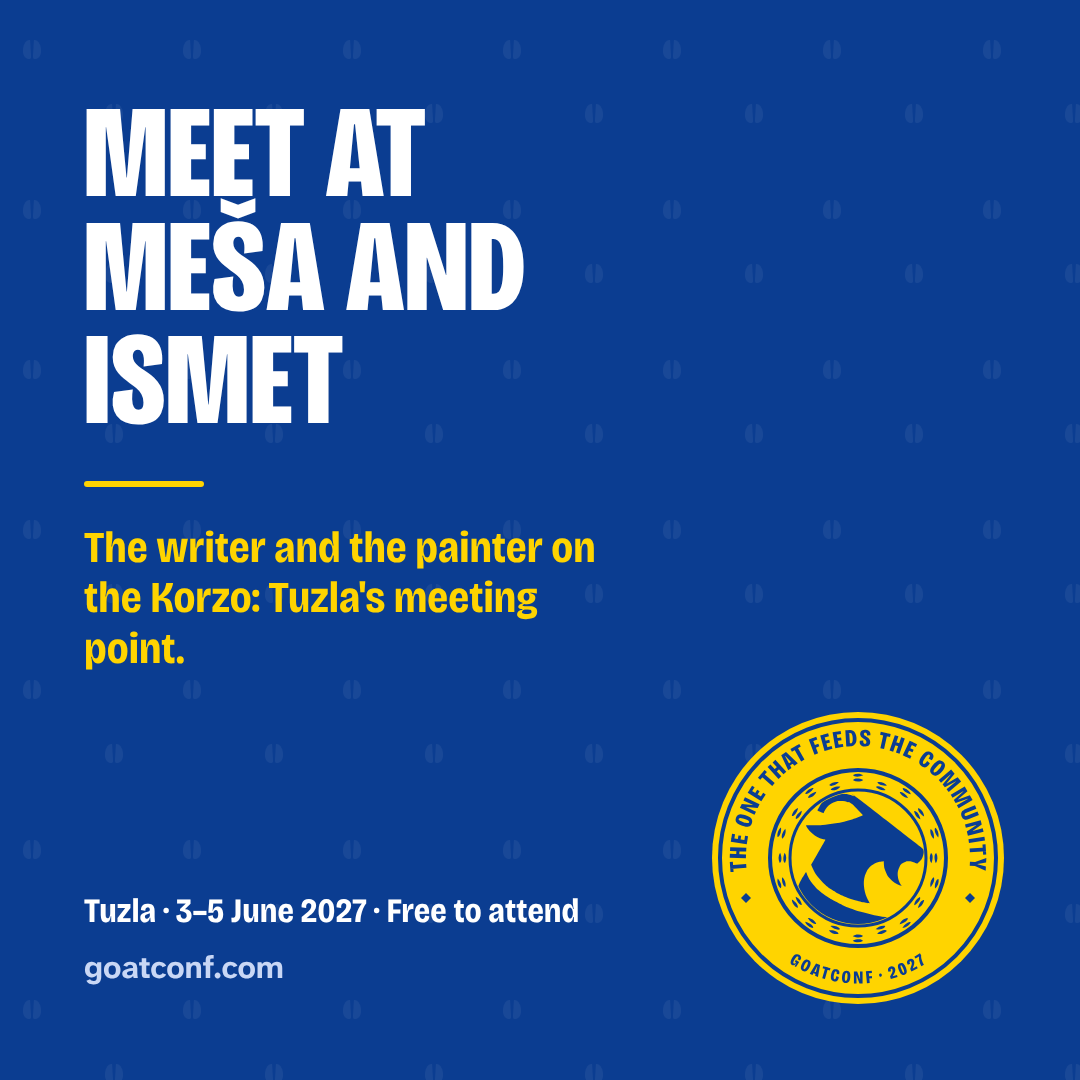
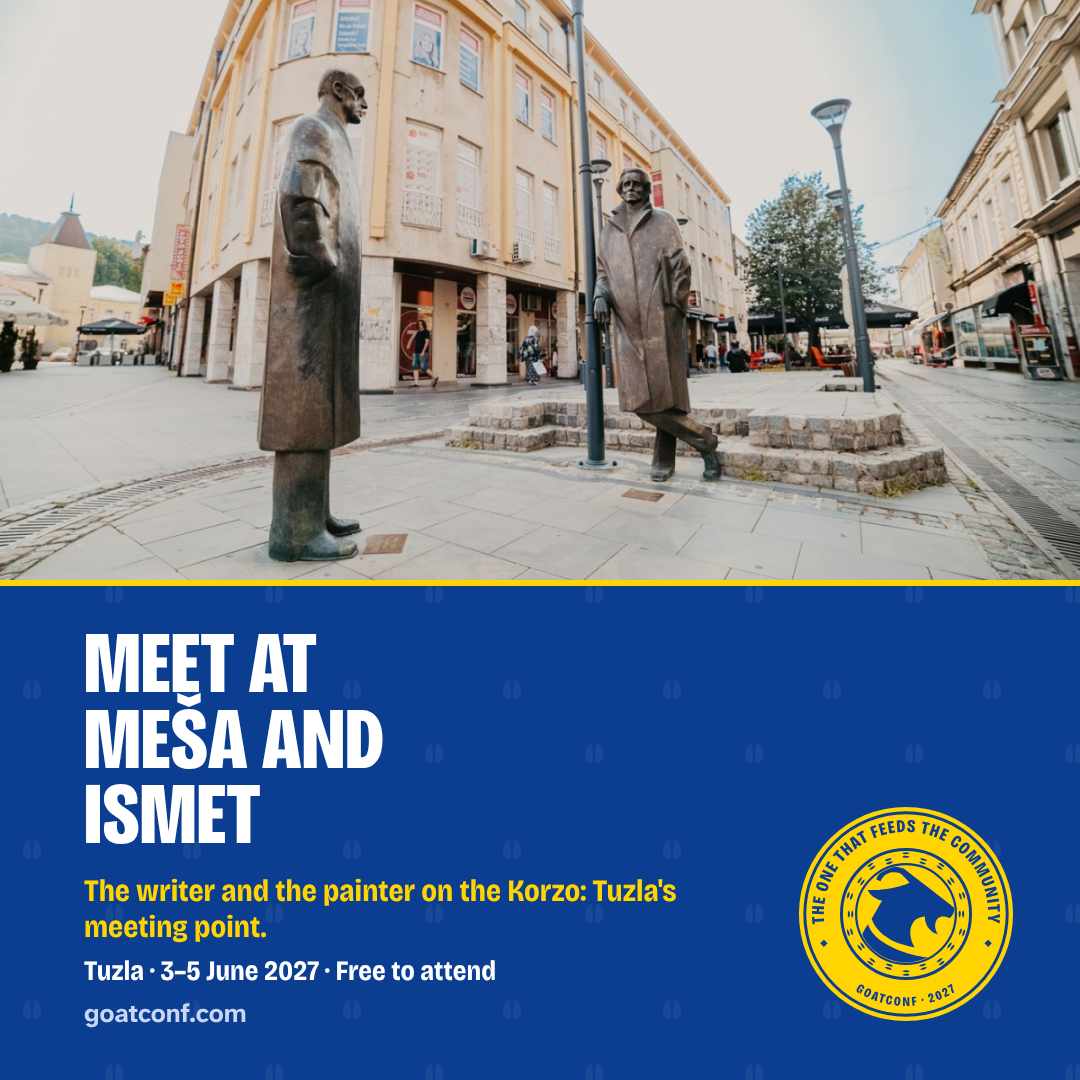
drumbeat: show Meša and Ismet on the Korzo in the week 4 post
The "Meet at Meša and Ismet" cards were lettering only. They now show a
photo of the two statues facing each other with the walking street
behind, the photo the organiser chose on 2026-11-07, with no credit on
the organiser's call.

- shareables: the post moves to the photo posts; a photo post may carry
  no credit, may say where to hold its crop, and a three-line title gets
  a taller photo and smaller words on the square card. The other photo
  posts render as before.
- the photo and its record under assets/images/organiser/, its card copy
  in site/img/
- drumbeat-2026 and tuzla-images record the change and the freely
  licensed fallbacks found on Commons and Flickr

Sources: sources/conversations/2026-11-07--org--mesa-and-ismet-photo.md
Restricted paths: files/tools/shareables.py

diff --git a/files/tools/shareables.py b/files/tools/shareables.py
@@ -218,13 +218,13 @@ POSTS = {
     "community-day": ("The<br>community's<br>day", "The salt lakes, the goat hunt, and the evening meetup."),
     "thank-you": ("Thank<br>you", "To everyone who spoke, supported, hosted, volunteered and came."),
     # The Tuesday Tuzla posts (wiki/org/outreach/drumbeat.md)
-    "mesa-and-ismet": ("Meet at<br>Meša and<br>Ismet", "The writer and the painter on the Korzo: Tuzla's meeting point."),
     "where-to-run-it": ("58 places<br>to run<br>yours", "From cafés on Freedom Square to halls for a few hundred people."),
     "salt-square": ("Salt<br>Square", "An Ottoman salt well from 1476, now an open-air museum."),
 }
 
-# Posts with a photo given for GoatConf, each with the credit line its giver asked for
-# (wiki/org/tuzla-images.md). The food photos are not freely licensed, so none is here.
+# Posts with a photo given for GoatConf, each with the credit line its giver asked for, or none where the organiser
+# chose no credit (wiki/org/tuzla-images.md). The food photos are not freely licensed, so none is here. An optional
+# fifth item says where to hold the photo in the square and in the wide crop (CSS object-position).
 PHOTO_POSTS = {
     "getting-to-tuzla": ("Getting<br>to Tuzla", "Fly to Tuzla or Sarajevo, or come by bus.", "img/city-square-mosque-summer.jpg", "Photo: Grad Tuzla"),
     "an-hour-off": ("An hour<br>off", "After every session: Freedom Square, five minutes away.", "img/city-square-fountain-summer.jpg", "Photo: Grad Tuzla"),
@@ -233,31 +233,39 @@ PHOTO_POSTS = {
     "next-week": ("Next week<br>in Tuzla", "The salt lakes open for the season on 1 June.", "img/city-old-town-aerial-paving.jpg", "Photo: Grad Tuzla"),
     "city-of-salt": ("A city of<br>salt", "Tuzla takes its name from tuz, the Turkish for salt.", "img/city-aerial-summer.jpg", "Photo: Grad Tuzla"),
     "seven-thousand-years": ("7,000<br>years", "Neolithic people boiled salt here, in houses on stilts.", "img/city-archaeological-park.jpg", "Photo: Grad Tuzla"),
+    # The Tuesday Tuzla posts (wiki/org/outreach/drumbeat.md): the two statues facing each other, the Korzo behind.
+    "mesa-and-ismet": ("Meet at<br>Meša and<br>Ismet", "The writer and the painter on the Korzo: Tuzla's meeting point.",
+                       "img/korzo-mesa-and-ismet.jpg", "", ("50% 60%", "40% 50%")),
 }
 
 
-def photo_post(w: int, h: int, title: str, line: str, img: str, credit: str, square: bool) -> str:
-    """A post with a photo: the photo on top (square) or on the left (wide), its credit on it, the words beside."""
+def photo_post(w: int, h: int, title: str, line: str, img: str, credit: str, square: bool,
+               focus: tuple[str, str] = ("50% 50%", "50% 50%")) -> str:
+    """A post with a photo: the photo on top (square) or on the left (wide), its credit on it if it has one, the words
+    beside. A three-line title gets a taller photo and smaller words on the square card, so the words still fit."""
     src = (SITE / img).as_uri()
     cred = (f'<div style="position:absolute; left:18px; bottom:14px; font-size:20px; font-weight:700; '
-            f'text-shadow:0 1px 4px rgb(0 0 0 / .8)">{esc(credit)}</div>')
+            f'text-shadow:0 1px 4px rgb(0 0 0 / .8)">{esc(credit)}</div>') if credit else ""
     if square:
+        tall = title.count("<br>") >= 2
+        band, word, sub, facts, url, seal_size, bottom = ((580, 88, 31, 28, 26, 220, 50) if tall
+                                                          else (540, 112, 38, 30, 28, 230, 64))
         return page(w, h, f"""
-<div style="position:absolute; left:0; top:0; width:{w}px; height:540px; overflow:hidden">
-  <img src="{src}" style="width:100%; height:100%; object-fit:cover">{cred}</div>
-<div class="rule" style="position:absolute; left:0; top:540px; width:{w}px; border-radius:0"></div>
-<div style="position:absolute; left:84px; top:600px; right:330px">
-  <div class="word" style="font-size:112px">{title}</div>
-  <div class="sub" style="font-size:38px; line-height:1.15; margin-top:30px">{line}</div>
+<div style="position:absolute; left:0; top:0; width:{w}px; height:{band}px; overflow:hidden">
+  <img src="{src}" style="width:100%; height:100%; object-fit:cover; object-position:{focus[0]}">{cred}</div>
+<div class="rule" style="position:absolute; left:0; top:{band}px; width:{w}px; border-radius:0"></div>
+<div style="position:absolute; left:84px; top:{band + (46 if tall else 60)}px; right:330px">
+  <div class="word" style="font-size:{word}px">{title}</div>
+  <div class="sub" style="font-size:{sub}px; line-height:1.15; margin-top:{20 if tall else 30}px">{line}</div>
 </div>
-<div style="position:absolute; left:84px; bottom:64px">
-  <div class="sub" style="font-size:30px; color:#fff">{FACTS}</div>
-  <div class="url" style="font-size:28px; margin-top:10px">{URL}</div>
+<div style="position:absolute; left:84px; bottom:{bottom}px">
+  <div class="sub" style="font-size:{facts}px; color:#fff">{FACTS}</div>
+  <div class="url" style="font-size:{url}px; margin-top:{8 if tall else 10}px">{URL}</div>
 </div>
-{seal(230, "right:64px; bottom:64px")}""")
+{seal(seal_size, f"right:64px; bottom:{bottom + 6 if tall else 64}px")}""")
     return page(w, h, f"""
 <div style="position:absolute; left:0; top:0; width:560px; height:{h}px; overflow:hidden">
-  <img src="{src}" style="width:100%; height:100%; object-fit:cover">{cred}</div>
+  <img src="{src}" style="width:100%; height:100%; object-fit:cover; object-position:{focus[1]}">{cred}</div>
 <div class="rule" style="position:absolute; left:560px; top:0; width:6px; height:{h}px; border-radius:0"></div>
 <div style="position:absolute; left:620px; top:64px; right:56px">
   <div class="word" style="font-size:88px">{title}</div>
@@ -439,9 +447,9 @@ def jobs() -> dict[str, tuple[int, int, str]]:
     for key, (title, line) in POSTS.items():
         out[f"post-{key}-square.png"] = (1080, 1080, post(1080, 1080, title, line, True))
         out[f"post-{key}-wide.png"] = (1200, 675, post(1200, 675, title.replace("<br>", " "), line, False))
-    for key, (title, line, img, credit) in PHOTO_POSTS.items():
-        out[f"post-{key}-square.png"] = (1080, 1080, photo_post(1080, 1080, title, line, img, credit, True))
-        out[f"post-{key}-wide.png"] = (1200, 675, photo_post(1200, 675, title, line, img, credit, False))
+    for key, (title, line, img, credit, *focus) in PHOTO_POSTS.items():
+        out[f"post-{key}-square.png"] = (1080, 1080, photo_post(1080, 1080, title, line, img, credit, True, *focus))
+        out[f"post-{key}-wide.png"] = (1200, 675, photo_post(1200, 675, title, line, img, credit, False, *focus))
     talks = speakers.sessions_by_speaker()
     for slug, (meta, _) in speakers.speakers().items():
         out[f"speaker-{slug}-square.png"] = (1080, 1080, speaker_card(slug, meta, talks.get(slug, []), True))

diff --git a/files/wiki/org/tuzla-images.md b/files/wiki/org/tuzla-images.md
@@ -2,11 +2,12 @@
 title: "Images of Tuzla for GoatConf: free to use, ask first, and gaps"
 kind: reference
 status: living
-updated: 2026-10-19
+updated: 2026-11-07
 confidence: medium
 depends_on:
   - org/tuzla.md
 sources:
+  - sources/conversations/2026-11-07--org--mesa-and-ismet-photo.md
   - sources/conversations/2026-10-19--org--site-review-decisions.md
   - sources/conversations/2026-10-13--org--food-photos-one-by-one.md
   - sources/web/images/food-photos-chosen-2026-10-13.md
@@ -330,3 +331,21 @@ Uštipci then gave way to `site/img/food-sarma.jpg` (sarma in a pot, by BiHVolim
 The organiser replaced all twelve food photos on the home page with ones picked from sheets of candidates, dish by dish (source: sources/conversations/2026-10-13--org--food-photos-one-by-one.md). They are **not freely licensed**: they come from recipe, news and blog sites, Pinterest and Tuzla restaurants' Korpa.ba menus, and are used on the organiser's decision, who takes one down if its owner asks. Every image and the page it came from is in `sources/web/images/food-photos-chosen-2026-10-13.md`. The earlier Commons photos for grah (pasulj) and burek (Nišići) are no longer on the site; the Commons licence records above stay as history.
 
 On 2026-10-19, on the organiser's call, the eleven photos no page showed came off the site: their copies under `site/img/` were removed, and the originals stay in `assets/images/` (source: sources/conversations/2026-10-19--org--site-review-decisions.md). The site now serves WebP copies of each photo it shows, written by `tools/images.py`.
+
+## Meša and Ismet, added 2026-11-07
+
+For the "Meet at Meša and Ismet" post the organiser chose a photo of their
+own finding: the two statues facing each other on the Korzo, low and wide,
+with the walking street, its trees and café umbrellas behind them in summer.
+Where it is from is *(unknown, needs source)*, and on the organiser's call it
+carries no credit. It is `assets/images/organiser/korzo-mesa-and-ismet.jpg`,
+with its record beside it, and `site/img/korzo-mesa-and-ismet.jpg`, which
+only the post cards use (source:
+sources/conversations/2026-11-07--org--mesa-and-ismet-photo.md).
+
+The search for it found freely licensed fallbacks, none downloaded into
+`assets/`: one photo of each statue by Sebleouf on Wikimedia Commons (2019,
+CC BY-SA 4.0), and both statues in one frame by Goran Necin on Flickr
+(2013-06-27, CC BY-SA 2.0), with a bank sign and a beer poster behind. Both
+statues are modern sculptures, so the freedom of panorama note above applies
+to every photo of them.

diff --git a/files/sources/conversations/2026-11-07--org--mesa-and-ismet-photo.md b/files/sources/conversations/2026-11-07--org--mesa-and-ismet-photo.md
@@ -1,0 +1,54 @@
+---
+title: "A photo of Meša and Ismet for the week 4 post"
+date: 2026-11-07
+kind: conversation
+---
+
+On Saturday 7 November 2026, told that the week 4 post "Meet at Meša and
+Ismet" was the one to go out that day, the organiser wrote, verbatim:
+
+> So... The photo seems generic. Wdyt if we make it a split and actually show Ismet and Mesa statue in the street?
+
+The agent said no photo of the monument was in the brain and offered
+options; the organiser wrote, verbatim:
+
+> Find a good photo
+
+The agent found, on Wikimedia Commons, one photo of each statue by
+Sebleouf (February 2019, CC BY-SA 4.0): "Tuzla - Meša Selimović Statue 2
+(2019).jpg" and "Tuzla - Ismet Mujezinović statue (2019).jpg"
+(https://commons.wikimedia.org/w/index.php?curid=76981455,
+https://commons.wikimedia.org/w/index.php?curid=76790523), and mocked up a
+split card with the two side by side. A third Sebleouf photo of Meša has a
+building under renovation, wrapped in a beer advertisement, behind it. The
+only Commons photo with both statues in one frame, "Tuzla-Mesa Selimovic
+Ismet Mujezinovic.jpg" by TheMiner, is 408 by 544, too small for a card.
+The organiser wrote, verbatim:
+
+> I want a photo where we can see both of them and there is no construction going on behind
+
+The agent found on Flickr "Tuzla, Monuments (Bosnia & Herzegovina)" by
+Goran Necin, taken 2013-06-27, CC BY-SA 2.0
+(https://www.flickr.com/photos/33581336@N02/9548315453): both statues
+facing each other, a bank sign and a beer poster behind. Another Flickr
+photo with both, by StaneStane, is CC BY-NC-SA and was left out. The
+organiser wrote, verbatim:
+
+> Do we have a different angle where we can see the walkable street line behind?
+
+Before the agent's further search finished (Flickr had started refusing
+its requests), the organiser shared a photo of their own finding, writing,
+verbatim:
+
+> Maybe this?
+
+It is a low, wide-angle summer shot of both statues facing each other with
+the Korzo, its trees and café umbrellas running back behind them, 1200 by
+744. Where it is from was not said. Asked where it came from and so which
+credit it carries, the organiser answered, verbatim:
+
+> Just don't show credit at all
+
+Then, verbatim:
+
+> Ok, make sure to land the changes to remote and we'll plan to release the post

diff --git a/files/wiki/org/outreach/drumbeat-2026.md b/files/wiki/org/outreach/drumbeat-2026.md
@@ -2,11 +2,12 @@
 title: "The drumbeat, October to December 2026"
 kind: reference
 status: draft
-updated: 2026-11-03
+updated: 2026-11-07
 confidence: medium
 affects:
   - org
 sources:
+  - sources/conversations/2026-11-07--org--mesa-and-ismet-photo.md
   - sources/conversations/2026-11-03--org--paul-spotlight-published.md
   - sources/conversations/2026-10-26--org--paul-campbell-carlos-area.md
   - sources/conversations/2026-10-26--org--paul-campbell-carlos.md
@@ -239,8 +240,8 @@ The posts in the order they go out. The calendar, the rules and what to do when 
 ### Sat 7 Nov 2026, week 4: Meet at Meša and Ismet
 
 - **State:** drafted
-- **Image:** [`post-mesa-and-ismet-square.png`](https://goatconf.com/share/post-mesa-and-ismet-square.png) (LinkedIn, Mastodon), [`post-mesa-and-ismet-wide.png`](https://goatconf.com/share/post-mesa-and-ismet-wide.png) (X, Bluesky)
-- **Before posting:** News first: until the speaker run ends on Tuesday 22 December, a supporter or an event confirmed this week takes this Saturday, and this post moves to the next open Saturday (source: sources/conversations/2026-11-02--org--speakers-one-by-one.md).
+- **Image:** [`post-mesa-and-ismet-square.png`](https://goatconf.com/share/post-mesa-and-ismet-square.png) (LinkedIn, Mastodon), [`post-mesa-and-ismet-wide.png`](https://goatconf.com/share/post-mesa-and-ismet-wide.png) (X, Bluesky). Since 2026-11-07 each card shows a photo of the two statues facing each other with the Korzo behind them, which the organiser chose over the plain lettering; on the organiser's call the photo carries no credit, on the card or in the text (source: sources/conversations/2026-11-07--org--mesa-and-ismet-photo.md).
+- **Before posting:** The new cards reach goatconf.com/share only once the change is merged and the site is published; until then post the PNGs from the repository. News first: until the speaker run ends on Tuesday 22 December, a supporter or an event confirmed this week takes this Saturday, and this post moves to the next open Saturday (source: sources/conversations/2026-11-02--org--speakers-one-by-one.md).
 - **LinkedIn:**
 
   > In Tuzla, "at Meša and Ismet" is all the directions anyone needs.

diff --git a/files/wiki/index.md b/files/wiki/index.md
@@ -18,6 +18,7 @@ what is proposed is on the [pitches hub](org/pitches/index.md).
 ## What changed
 
 <!-- home-section: filled; maintained-by: /shape; updated: 2026-10-24 -->
+- **2026-11-07**: **Meša and Ismet, on the card.** The week 4 post's cards now show the two statues facing each other on the Korzo, the walking street behind them, in place of the plain lettering; the photo is one the organiser chose and carries no credit, on the organiser's call ([the drumbeat](org/outreach/drumbeat-2026.md); [images of Tuzla](org/tuzla-images.md); source: sources/conversations/2026-11-07--org--mesa-and-ismet-photo.md).
 - **2026-11-03**: **Paul Campbell's spotlight is out.** The first speaker post of the run; Roy Tomeij is next, on Tuesday 10 November ([the drumbeat](org/outreach/drumbeat.md); source: sources/conversations/2026-11-03--org--paul-spotlight-published.md).
 - **2026-11-03**: **Paul Campbell's spotlight, rewritten to sell the conference, and his profile updated.** Written from scratch after reading his posts on CARLOS: Tito's $1 billion in tickets, Funconf and This Next Thing, and his talk, The story of CARLOS, with Tito's own figures. His page's bio no longer names IO, now Tito Pro, and his session says why he built CARLOS ([the drumbeat](org/outreach/drumbeat-2026.md); sources: sources/conversations/2026-11-03--org--paul-spotlight-rewrite.md, sources/web/speakers/paul-campbell-carlos-and-events-2026-11-03.md).
 - **2026-11-02**: **The speakers, one by one, on Tuesdays, from 3 November.** No round-up post: from Tuesday 3 November to Tuesday 22 December 2026 each Tuesday carries one speaker, Paul Campbell first, in the speakers page's order. The Tuzla posts move to the Saturdays the speakers left, and the registration post goes after the last speaker, on Saturday 9 January 2027 ([the drumbeat](org/outreach/drumbeat.md); sources: sources/conversations/2026-11-02--org--speakers-one-by-one.md, sources/conversations/2026-11-02--org--do-what-feels-best.md, sources/conversations/2026-11-02--org--speakers-from-tomorrow.md).

diff --git a/files/wiki/_views/ai-suggestions.md b/files/wiki/_views/ai-suggestions.md
@@ -2,7 +2,7 @@
 title: AI suggestions — drafts for human review
 kind: meta
 status: living
-updated: 2026-11-03
+updated: 2026-11-07
 confidence: high
 sources:
   - tools/brain.py

diff --git a/files/wiki/_views/by-epic.md b/files/wiki/_views/by-epic.md
@@ -2,7 +2,7 @@
 title: Index — by epic
 kind: meta
 status: living
-updated: 2026-11-03
+updated: 2026-11-07
 confidence: high
 sources:
   - tools/brain.py

diff --git a/files/wiki/_views/by-kind.md b/files/wiki/_views/by-kind.md
@@ -2,7 +2,7 @@
 title: Index — by kind
 kind: meta
 status: living
-updated: 2026-11-03
+updated: 2026-11-07
 confidence: high
 sources:
   - tools/brain.py

diff --git a/files/wiki/_views/by-repo.md b/files/wiki/_views/by-repo.md
@@ -2,7 +2,7 @@
 title: Index — by repo
 kind: meta
 status: living
-updated: 2026-11-03
+updated: 2026-11-07
 confidence: high
 sources:
   - tools/brain.py

diff --git a/files/wiki/_views/by-team.md b/files/wiki/_views/by-team.md
@@ -2,7 +2,7 @@
 title: Index — by team
 kind: meta
 status: living
-updated: 2026-11-03
+updated: 2026-11-07
 confidence: high
 sources:
   - tools/brain.py

diff --git a/files/wiki/_views/attention.md b/files/wiki/_views/attention.md
@@ -2,7 +2,7 @@
 title: Attention board
 kind: meta
 status: living
-updated: 2026-11-03
+updated: 2026-11-07
 confidence: high
 sources:
   - tools/brain.py
